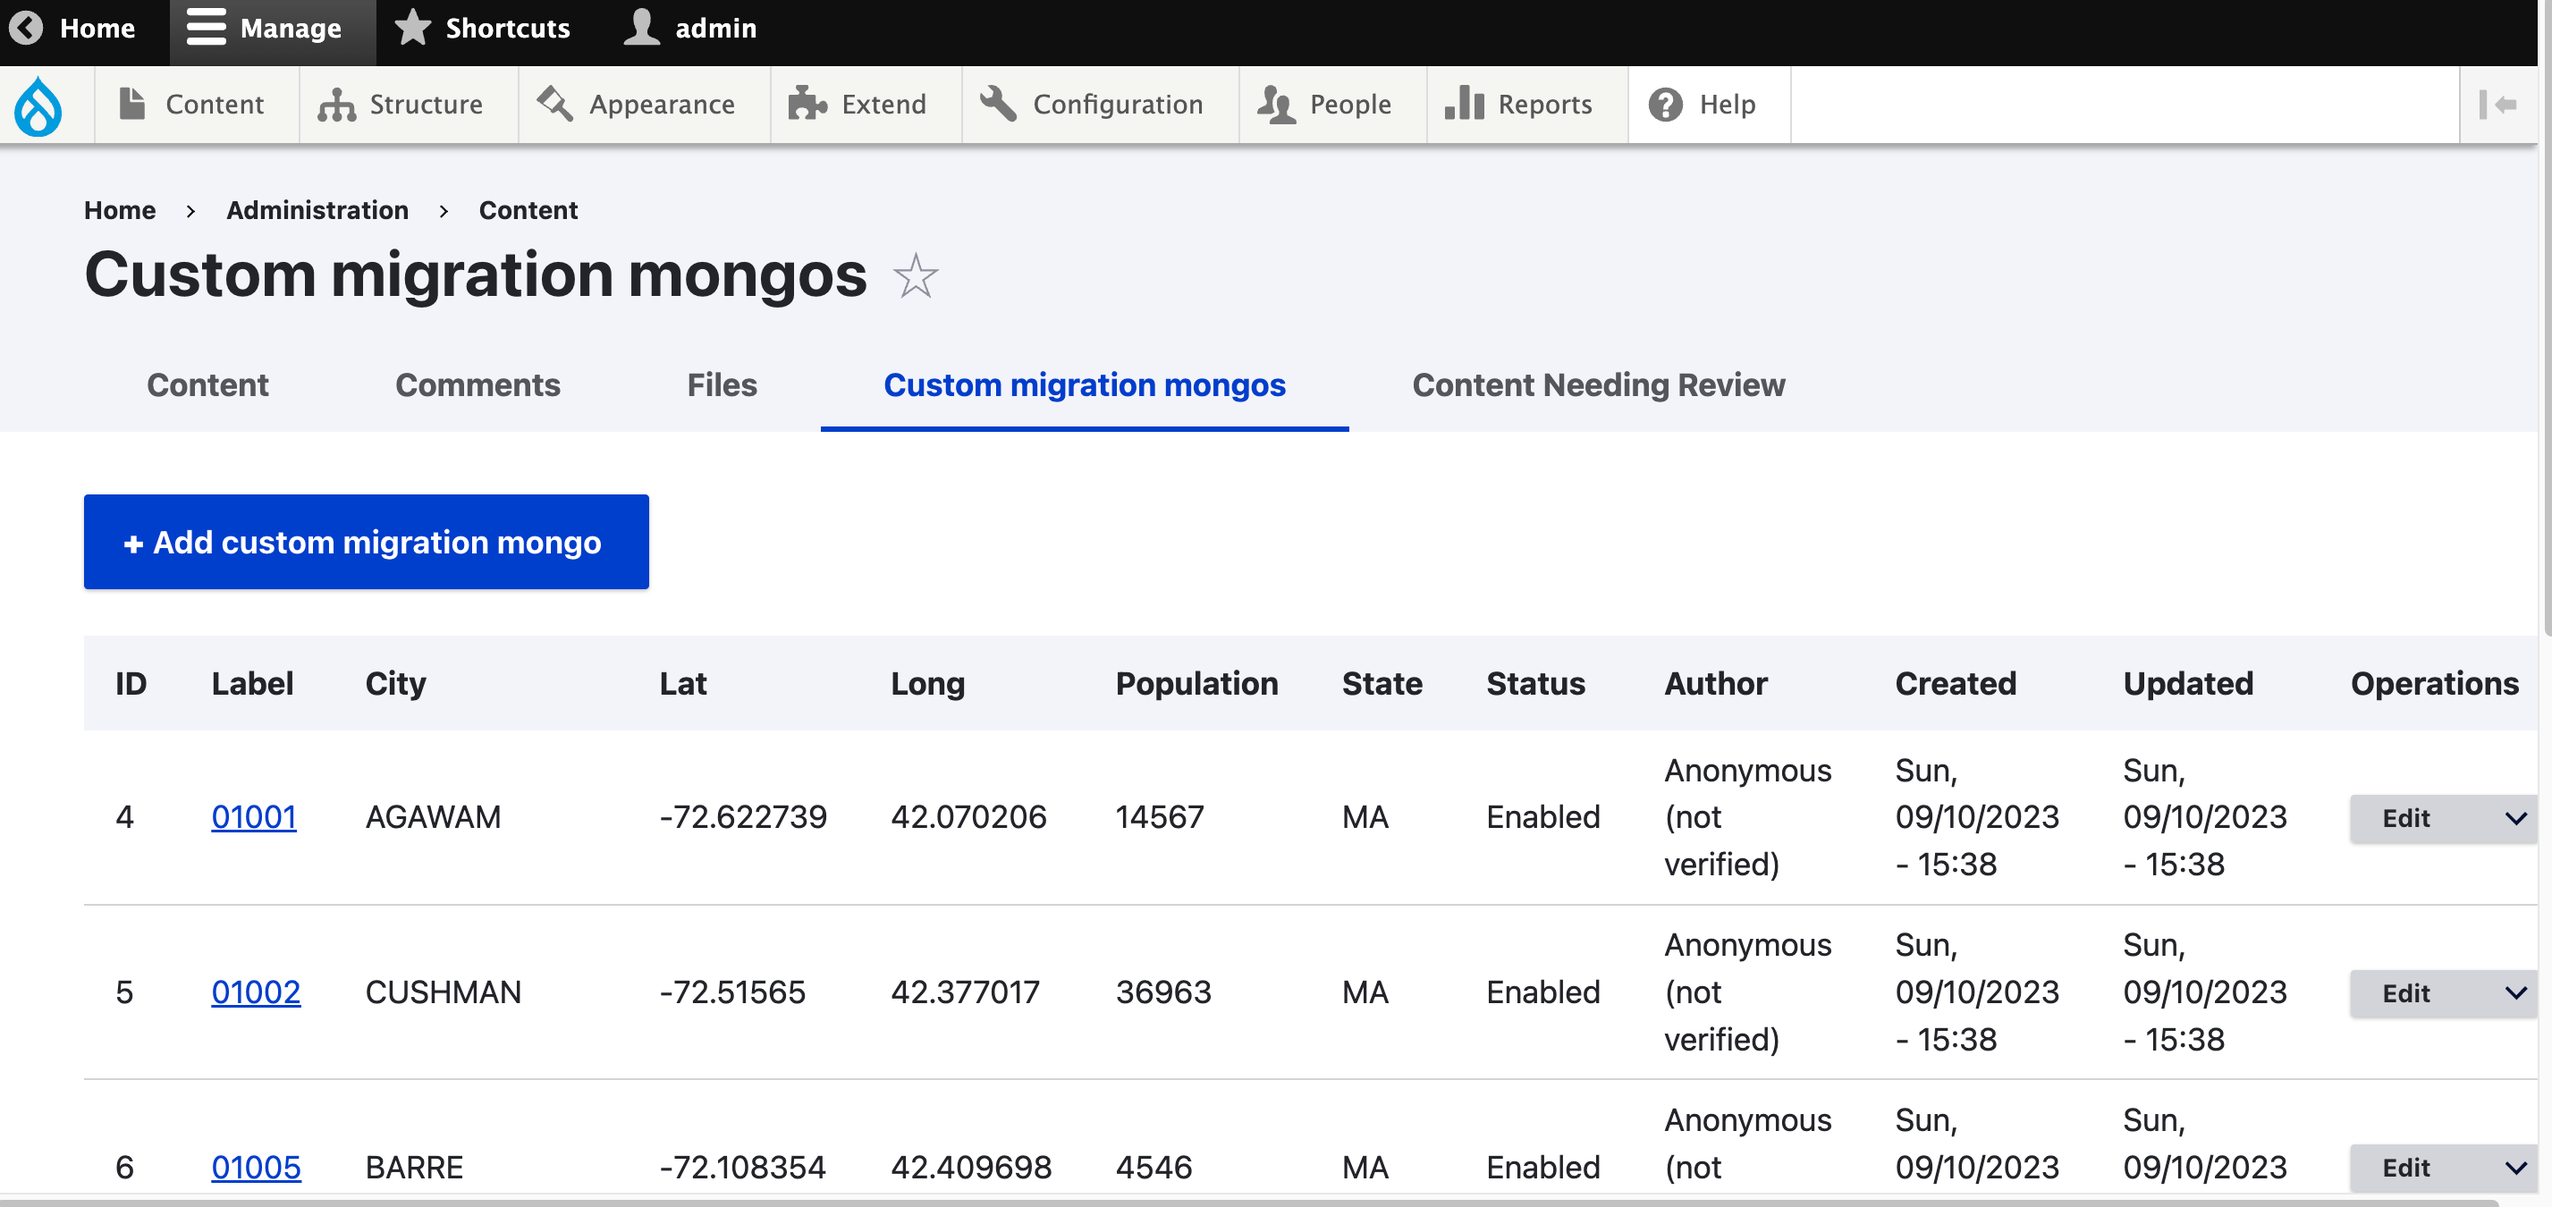
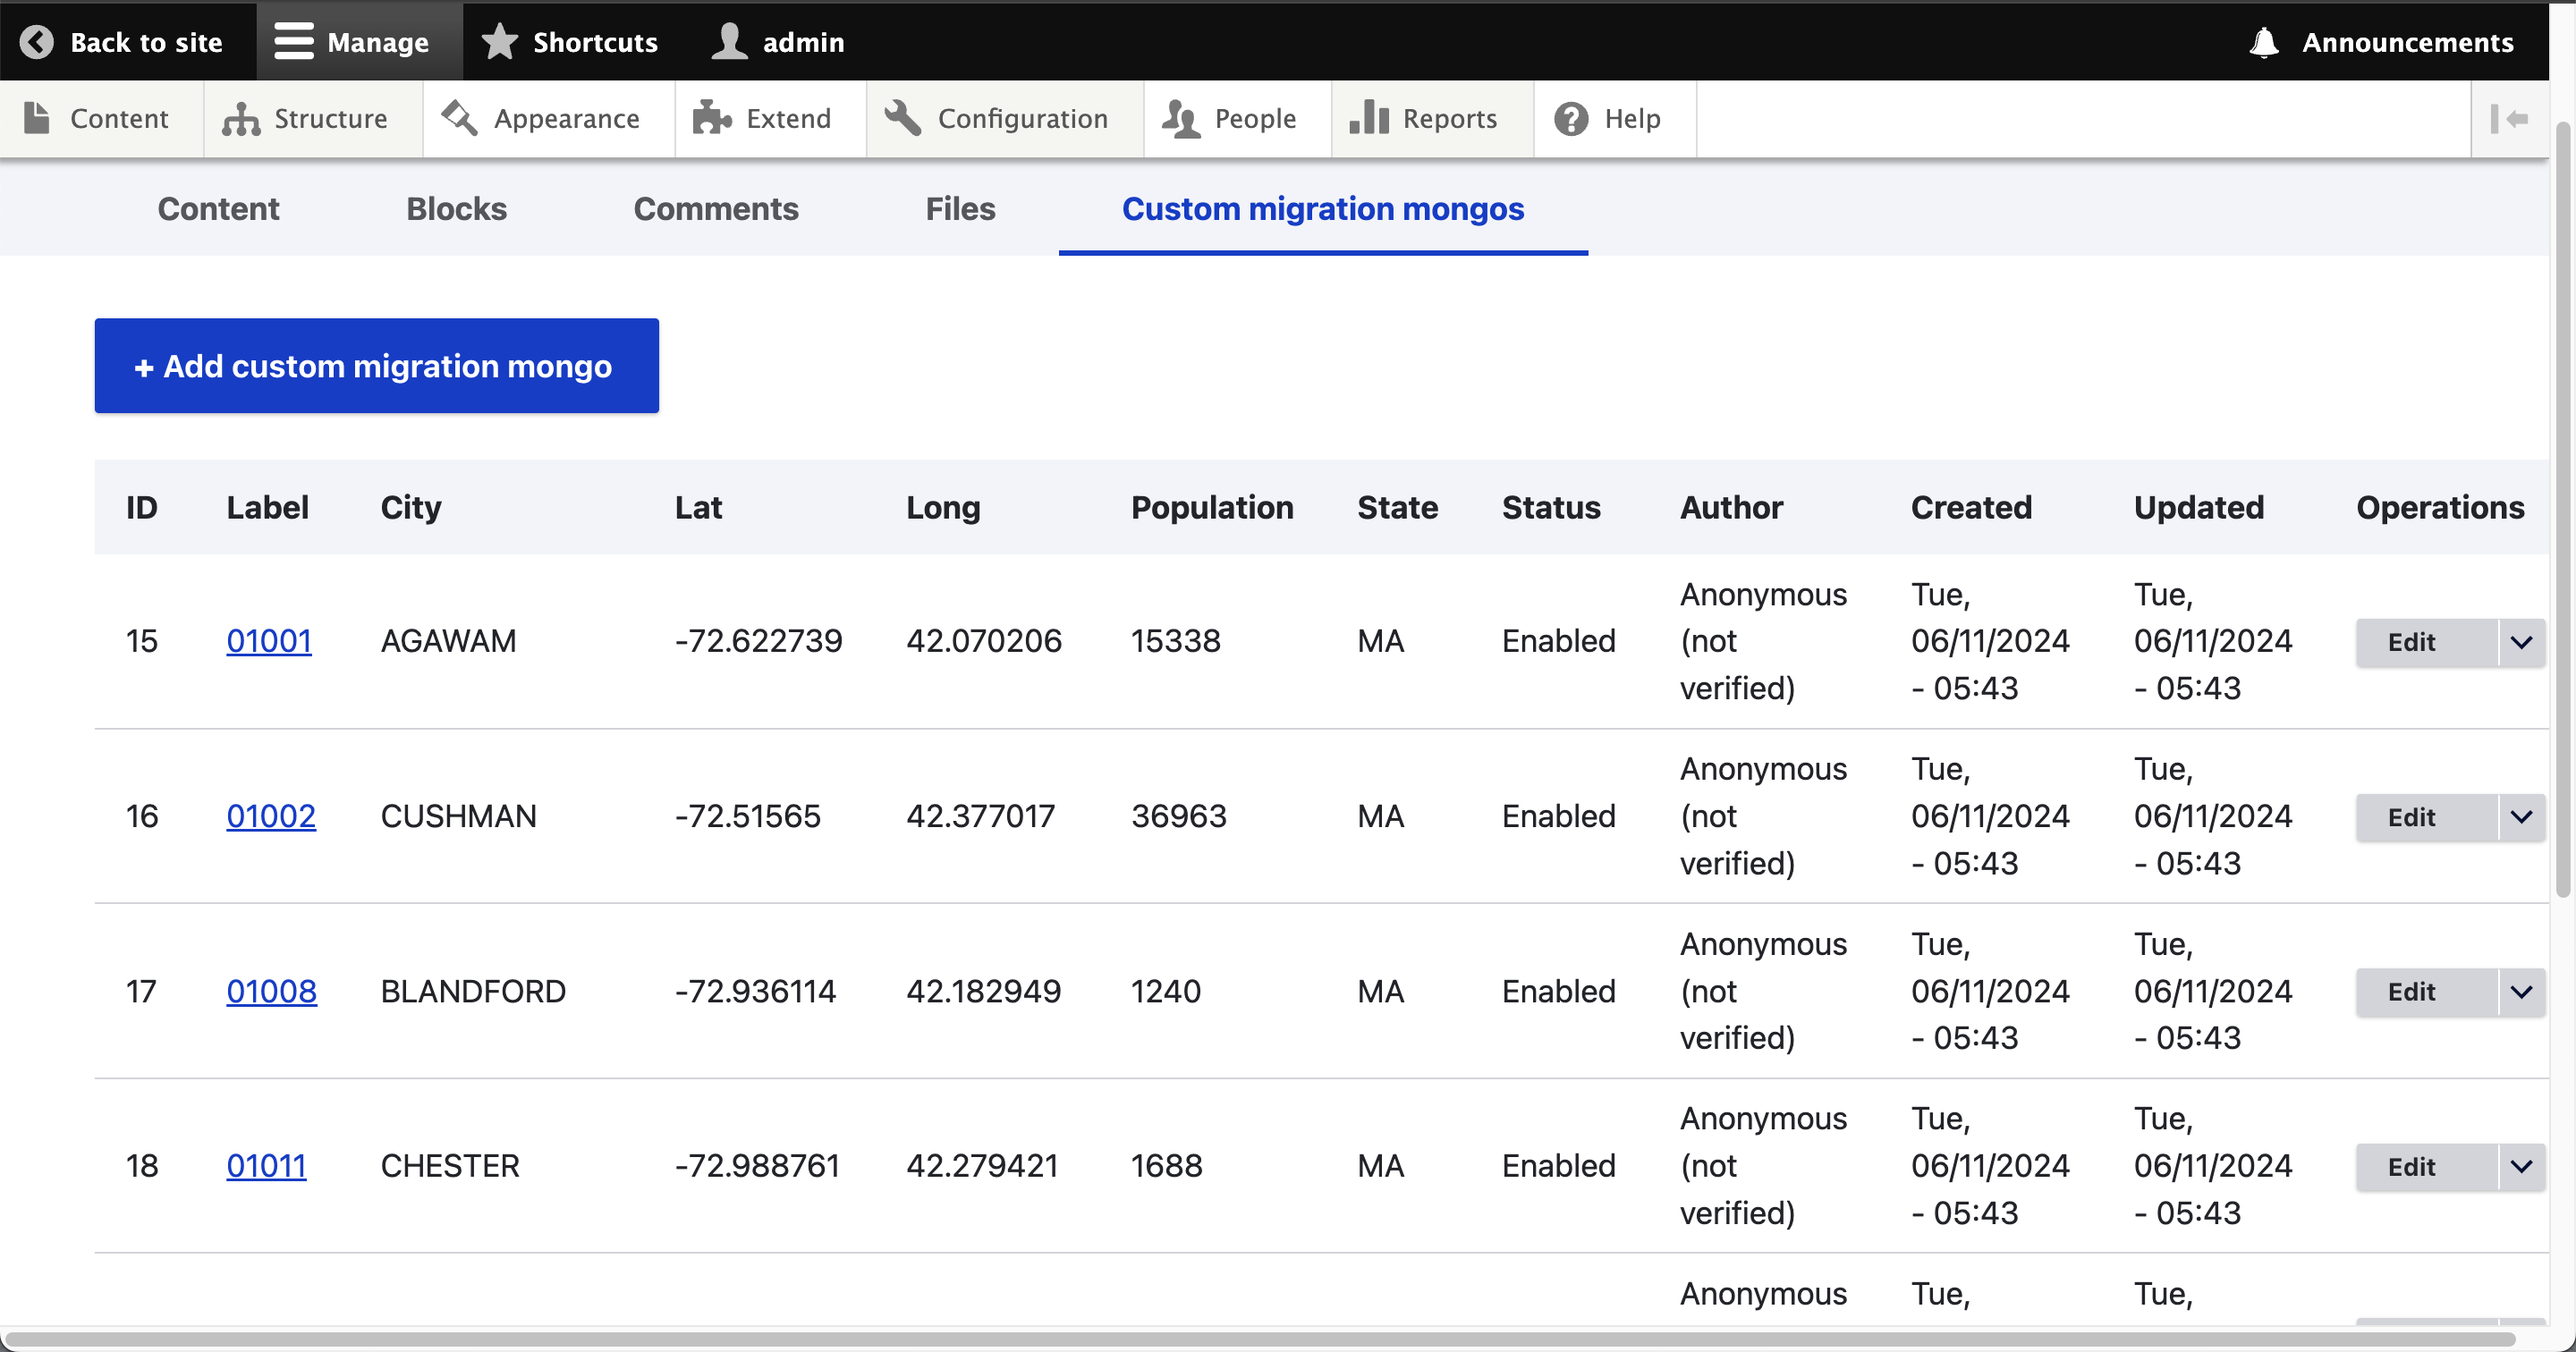
Screenshots

diff --git a/README.md b/README.md
@@ -25,3 +25,5 @@ The skeleton of the module is generated via drush (module, entity). So there wil
 ![alt text](screenshots/mogodb_Atlas.png)
 
 ![alt text](screenshots/Migration.png)
+
+![alt text](screenshots/migrations-data.png)
